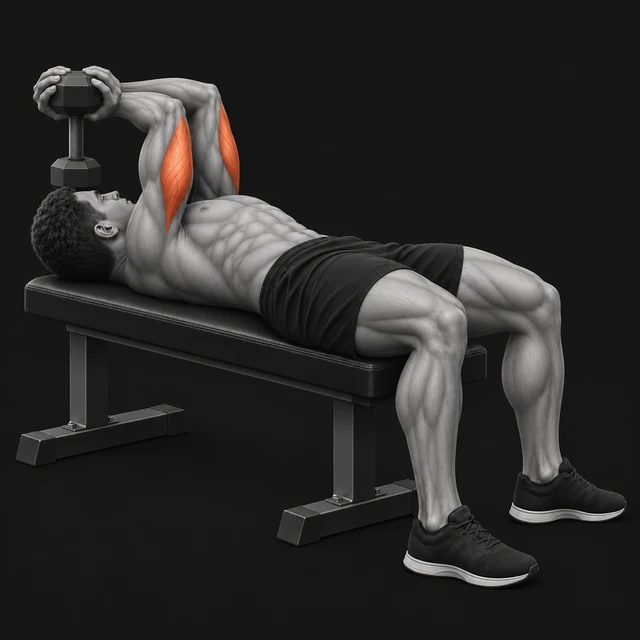
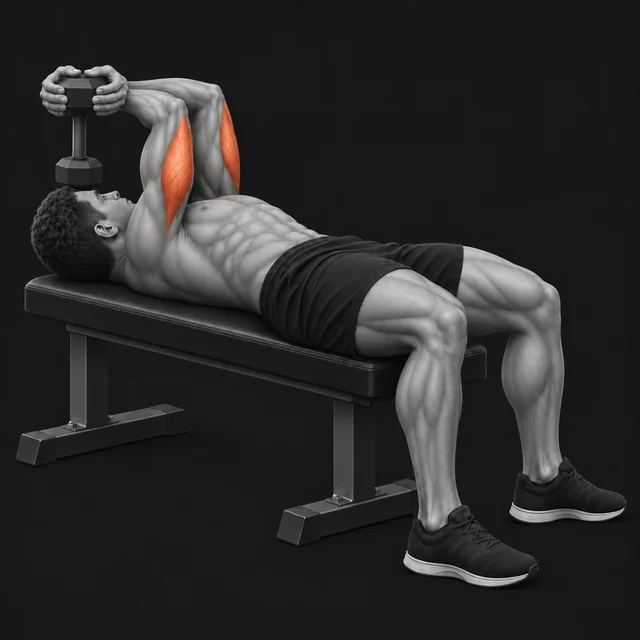
Fix exercise picker grip asset and CI bindings

Changed region(s): [[0.0312, 0.0938, 0.375, 0.2812], [0.8125, 0.7812, 0.8438, 0.8125], [0.1562, 0.3438, 0.1875, 0.375]]

diff --git a/tests/training-program-editor-navigation.test.tsx b/tests/training-program-editor-navigation.test.tsx
@@ -1,6 +1,6 @@
 /** @vitest-environment jsdom */
 import { afterEach, describe, expect, it, vi } from "vitest";
-import { cleanup, render, screen, waitFor } from "@testing-library/react";
+import { cleanup, render, screen, waitFor, within } from "@testing-library/react";
 import userEvent from "@testing-library/user-event";
 
 const navigation = vi.hoisted(() => ({ push: vi.fn(), refresh: vi.fn() }));
@@ -45,7 +45,11 @@ describe("Training program editor return context", () => {
 
     render(<ProgramEditorClient />);
     await user.type(await screen.findByLabelText("Name"), "Push day");
-    await user.click(screen.getByRole("button", { name: "Add" }));
+    await user.click(screen.getByRole("button", { name: "Choose exercise from catalog" }));
+    const picker = await screen.findByRole("dialog", { name: "Exercise catalog" });
+    await user.click(within(picker).getByRole("button", { name: /^All exercises/ }));
+    await user.click(await within(picker).findByRole("button", { name: /Push up/ }));
+    await user.click(within(picker).getByRole("button", { name: "Add exercise" }));
     await user.click(screen.getByRole("button", { name: "Save" }));
 
     await waitFor(() => expect(navigation.push).toHaveBeenCalledWith(expect.stringMatching(/^\/training\?recentPage=2&programsRefresh=\d+$/)));

diff --git a/tests/training-live-session-ui.test.tsx b/tests/training-live-session-ui.test.tsx
@@ -1160,6 +1160,7 @@ describe("Live training session mobile UI", () => {
 
     await user.click(opener);
     dialog = await screen.findByRole("dialog", { name: "Каталог вправ" });
+    await waitFor(() => expect(document.activeElement).toBe(within(dialog).getByRole("searchbox", { name: "Пошук усіх вправ" })));
     expect(catalogRequestIndex).toBe(2);
     pendingRequests[0]!.resolve(Response.json({ exercises: [{
       id: 9,
@@ -1178,6 +1179,7 @@ describe("Live training session mobile UI", () => {
 
     await user.click(opener);
     dialog = await screen.findByRole("dialog", { name: "Каталог вправ" });
+    await waitFor(() => expect(document.activeElement).toBe(within(dialog).getByRole("searchbox", { name: "Пошук усіх вправ" })));
     expect(catalogRequestIndex).toBe(3);
     pendingRequests[1]!.reject(new Error("catalog unavailable after close"));
     await waitFor(() => expect(within(dialog).getByRole("status")).toBeTruthy());
